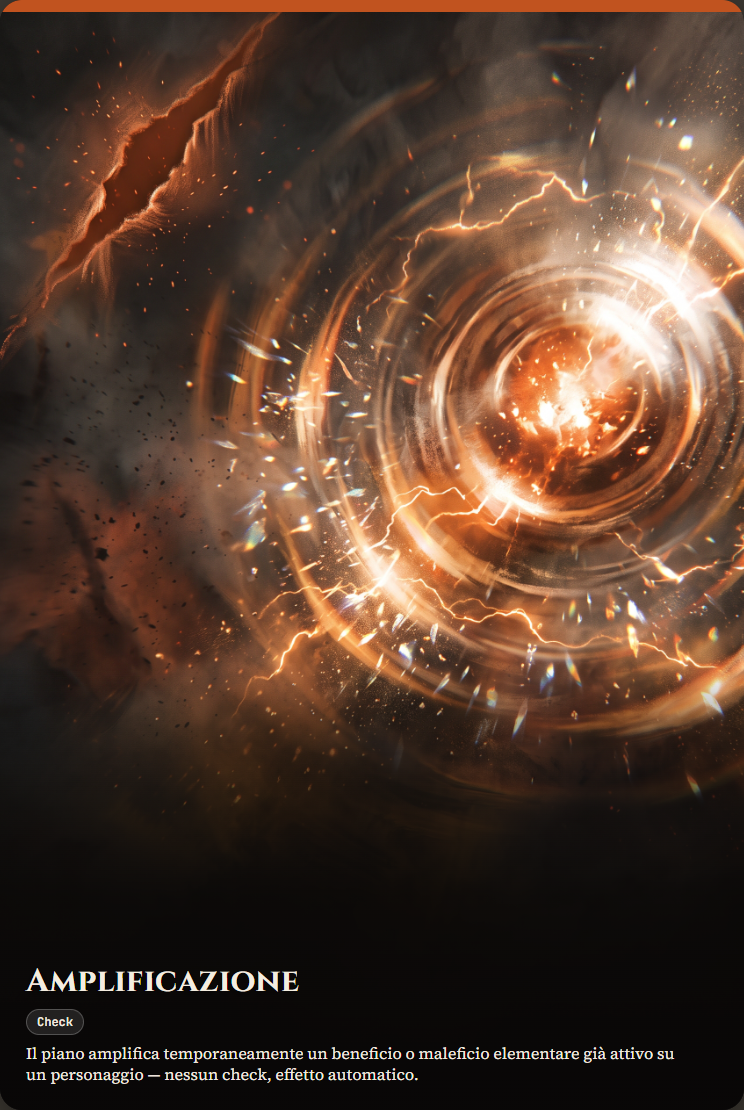
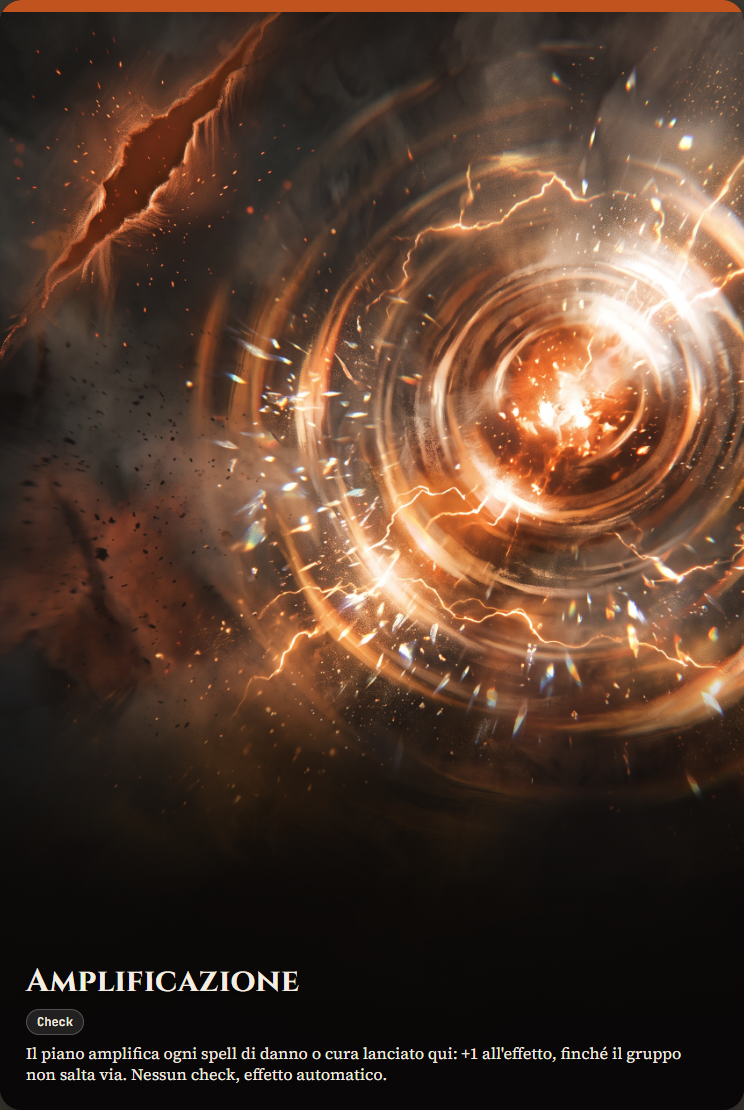
Ridisegna Amplificazione: prima quasi sempre no-op, ora una vera finestra +1 spell
L'utente ha notato che "letta così non fa nulla" — aveva ragione: la
vecchia meccanica amplificava un beneficio/maleficio elementare GIA'
attivo su un personaggio, ma nella stragrande maggioranza dei casi non
c'era nulla da amplificare, quindi il pescaggio era quasi sempre a
vuoto.

Ridisegnata come richiesto: apre una finestra (state.amplifySpellsActive)
che dà +1 all'effetto di ogni spell di danno o cura lanciato mentre
resta aperta — si chiude automaticamente al salto successivo
(doJump()). Applicato ai due punti dove uno spell cura o infligge
danno diretto: healOther (Mani Risananti, Parola di Conforto,
Assoluzione — +1 all'importo curato) e combatDamageAll (Fiamma
Purificatrice — +1 danno diretto). Non tocca danno da Contesa normale
(quello dipende dal tiro, non da un valore fisso da amplificare).

Testo della carta aggiornato, ricomposta l'illustrazione (arte
originale già in cards_raw).

Verificato dal vivo: pescata la carta la finestra si apre con un solo
log (non uno per personaggio); Mani Risananti (base 2 PV) con la
finestra attiva cura davvero 3 PV; al salto successivo la finestra si
chiude.

Changed region(s): [[0.0309, 0.9189, 0.8965, 0.9802]]

diff --git a/index.html b/index.html
@@ -360,7 +360,7 @@ const INCONTRI = {
     C("el_guida","Guida elementale","ricompensa","Una creatura minore indica una via d'uscita: guarda la prima carta del mazzo Piani.",{reward:{type:"peek",n:1}}),
     C("el_mercante","Mercante elementale","ricompensa","Uno spirito offre un baratto: un oggetto in cambio di un nuovo oggetto o di 1 risorsa planare, a scelta.",{reward:{type:"tradeItemForItemOrResource"}}),
     C("el_custode","Custode del piano","incontro","Un elementale maggiore sorveglia il passaggio. Scontro forte sulla statistica nativa del piano (valore nemico 3).",{check:"native",gravity:1,forte:true}),
-    C("el_amplificazione","Amplificazione","check","Il piano amplifica temporaneamente un beneficio o maleficio elementare già attivo su un personaggio — nessun check, effetto automatico.",{auto:true,onFail:{type:"amplify"}}),
+    C("el_amplificazione","Amplificazione","check","Il piano amplifica ogni spell di danno o cura lanciato qui: +1 all'effetto, finché il gruppo non salta via. Nessun check, effetto automatico.",{auto:true,onFail:{type:"ampSpells"}}),
     C("el_rifugio","Rifugio temporaneo","ricompensa","Un angolo relativamente sicuro: +1 PV a un personaggio a scelta. Al riparo qui: si evita anche l'effetto di fine turno del piano.",{reward:{type:"heal",n:1},safeRespite:true}),
     C("el_frattura","Frattura planare","check","Una crepa instabile verso un altro piano elementare si apre sotto i piedi. Check di Intelletto per ciascuno: chi fallisce ci cade dentro e forma un nuovo gruppo, separato dal resto.",{check:"int",onFail:{type:"splitGroup"}}),
     C("el_onda","Onda d'Urto","check","Una scarica improvvisa mette alla prova i riflessi. Check di Destrezza: se fallito, 1 danno.",{check:"des",onFail:{type:"damage",n:1}}),
@@ -629,6 +629,7 @@ function newGame(){
     pendingSferaAntiplanare:null, // {groupId}: annulla l'effetto intrinseco del prossimo piano in cui questo gruppo entra
     jumpedThisRound:{}, // {groupId:true}: gruppi separati che hanno già saltato in questo turno sincronizzato — si aspettano a vicenda
     pattoOnoreActive:false, // Patto d'Onore: da quando si prende la ricompensa, ogni vittoria in combattimento nell'Entropia frutta un oggetto
+    amplifySpellsActive:false, // Amplificazione: +1 all'effetto di ogni spell di danno o cura lanciato, finché il gruppo non salta via
   };
   render();
 }
@@ -1243,6 +1244,7 @@ function reinsertPianoCard(id){
   state.mazzoPiani.splice(pos,0,id);
 }
 function doJump(){
+  state.amplifySpellsActive = false; // la finestra di Amplificazione si chiude appena si salta via
   if(state.pendingReunion && state.groups.length>1){
     mergeAllGroups();
     state.pendingReunion=false;
@@ -2134,20 +2136,14 @@ function applyConsequence(cons, targets, plane){
       case 'scatterSelf': logMsg(`🌀 ${c.name} si allontana dal gruppo, si riunirà al turno successivo.`,'warn'); break;
       case 'forgetSpell': if(c.spells.length) logMsg(`🌫 ${c.name} dimentica temporaneamente uno spell (torna a Recupero).`); else applyTempDebuff(c,'int'); break;
       case 'minor': logMsg(`❓ ${c.name}: effetto minore casuale, risolvilo narrativamente.`); break;
-      case 'amplify': {
-        // Amplificazione: potenzia un beneficio o maleficio elementare GIA' attivo su questo
-        // personaggio — nessuna scelta, si limita ad amplificare ciò che già c'è (se c'è).
-        const boosted = STATS.filter(s=>s!=='pv' && c.tempBonus && c.tempBonus[s]);
-        const debuffed = STATS.filter(s=>s!=='pv' && c.tempDebuff && c.tempDebuff[s]);
-        if(boosted.length){
-          const s=boosted[0]; const before=c.stats[s]; c.stats[s]=Math.min(6,c.stats[s]+1); c.tempBonus[s]+=(c.stats[s]-before);
-          logMsg(`🔥 ${c.name}: il piano amplifica il suo beneficio temporaneo a ${STAT_LABEL[s]} (${before} → ${c.stats[s]}).`,'good');
-        } else if(debuffed.length){
-          const s=debuffed[0];
-          applyTempDebuff(c,s); // se già temporaneo, questo lo aggrava a permanente (comportamento esistente)
-          logMsg(`🔥 ${c.name}: il piano amplifica il suo maleficio a ${STAT_LABEL[s]}.`,'warn');
-        } else {
-          logMsg(`🔥 ${c.name}: nessun beneficio o maleficio elementare attivo da amplificare, nessun effetto.`);
+      case 'ampSpells': {
+        // Amplificazione: prima amplificava un beneficio/maleficio elementare GIA' attivo,
+        // ma quasi sempre non c'era nulla da amplificare — un pescaggio a vuoto la maggior
+        // parte delle volte. Ridisegnata: apre una finestra che potenzia ogni spell di danno
+        // o cura lanciato mentre resta aperta (+1 all'effetto), finché il gruppo non salta via.
+        if(!state.amplifySpellsActive){
+          state.amplifySpellsActive = true;
+          logMsg(`🔥 ${plane.name}: ogni spell di danno o cura lanciato qui ottiene +1 all'effetto, finché il gruppo non salta via.`,'good');
         }
         break;
       }
@@ -3471,7 +3467,11 @@ function useSpell(c, idx){
       return true;
     }
     else if(r.type==='reshuffle'){ reshuffleMazzoPiani(); }
-    else if(r.type==='healOther'){ return openHealOtherModal(c, idx, sp, r, boosted?2:1); }
+    else if(r.type==='healOther'){
+      const amp = state.amplifySpellsActive ? 1 : 0;
+      if(amp) logMsg(`🔥 Amplificazione: ${sp.name} ottiene +1 all'effetto.`,'good');
+      return openHealOtherModal(c, idx, sp, {...r, n:(r.n||1)+amp}, boosted?2:1);
+    }
     else if(r.type==='grantReroll'){ return openGrantRerollModal(c, idx, sp, r); }
   } else if(sp.selfRecupero){
     recuperoFor(c);
@@ -3483,9 +3483,10 @@ function useSpell(c, idx){
     const liveEntities = cb && cb.entities ? cb.entities.filter(e=>e.hp>0) : [];
     const validTargets = sp.filterUndeadDemon ? liveEntities.filter(e=>e.undead||e.demon) : liveEntities;
     if(validTargets.length===0){ logMsg(`⚠ ${sp.name}: nessuna entità bersaglio presente in questo momento.`,'warn'); return; }
-    const dmg = sp.combatDamageAll * (boosted?2:1);
+    const amp = state.amplifySpellsActive ? 1 : 0;
+    const dmg = sp.combatDamageAll * (boosted?2:1) + amp;
     validTargets.forEach(e=>{ e.hp -= dmg; });
-    logMsg(`🔥 ${c.name} lancia ${sp.name}: ${dmg} danni diretti alle entità bersaglio.`);
+    logMsg(`🔥 ${c.name} lancia ${sp.name}: ${dmg} danni diretti alle entità bersaglio${amp?' (+1 da Amplificazione)':''}.`);
   } else {
     logMsg(`📖 ${c.name} lancia ${sp.name}: ${sp.text} (applica manualmente se serve).`);
   }
